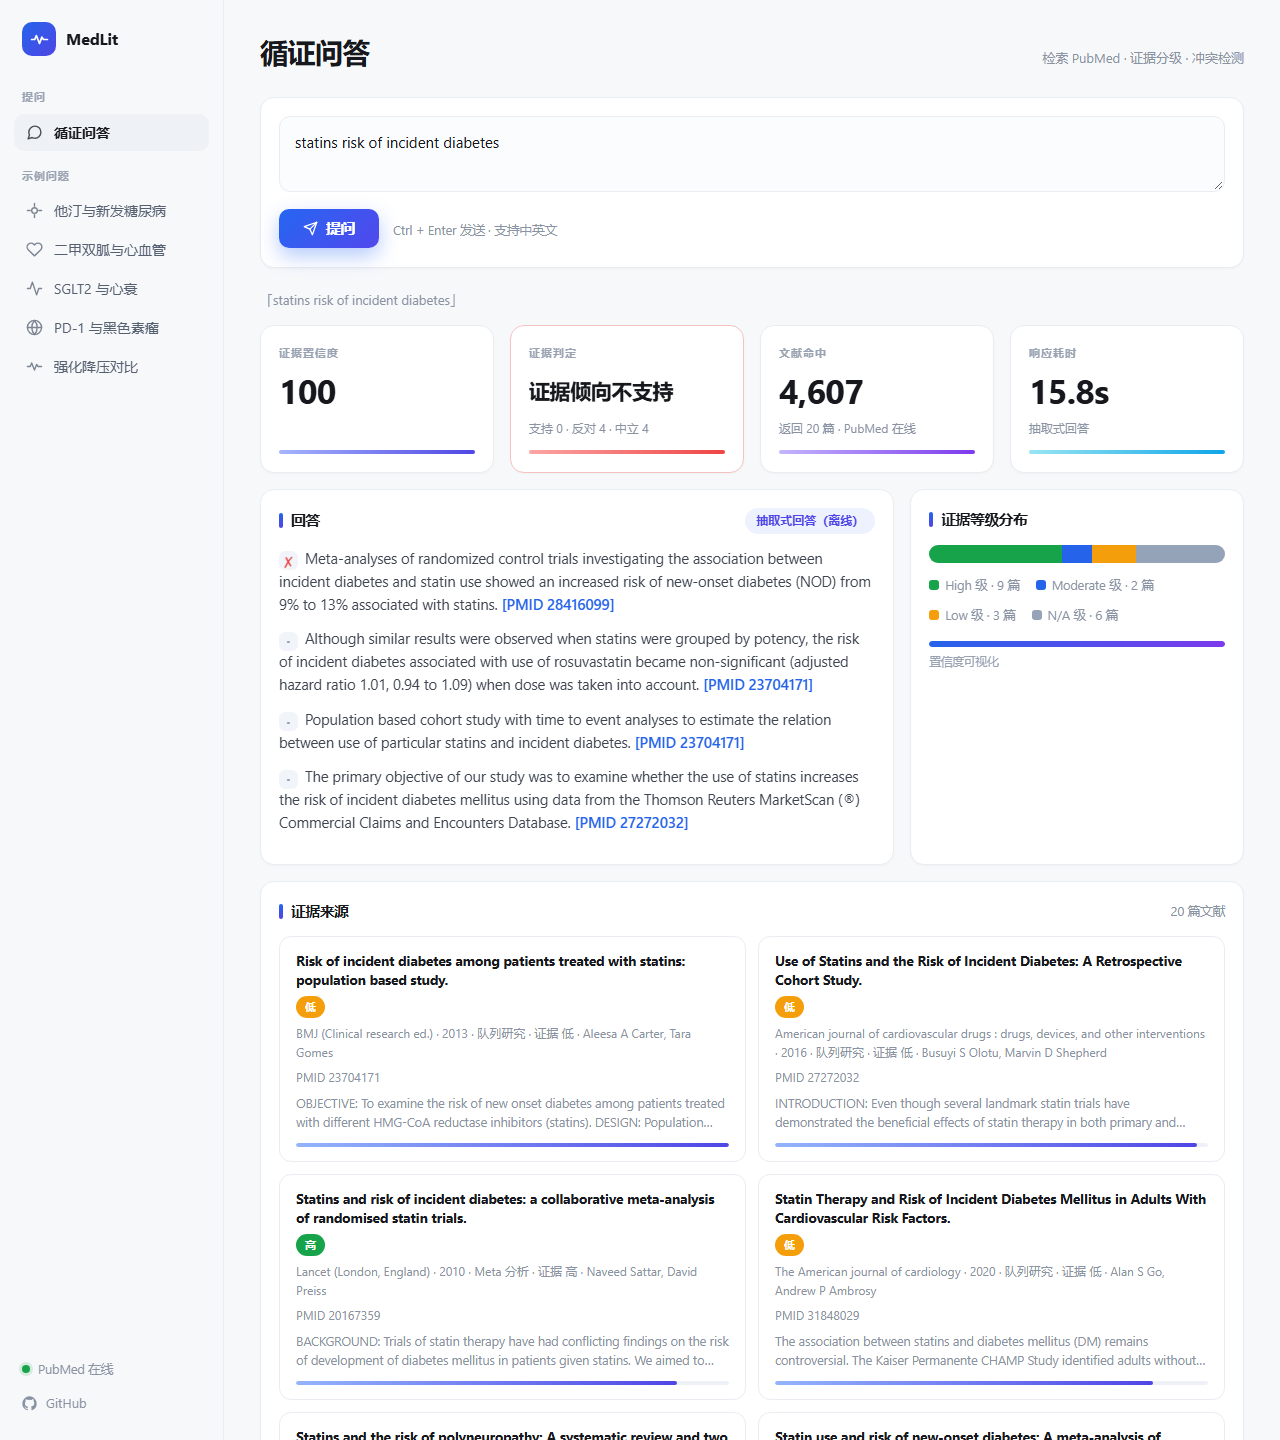
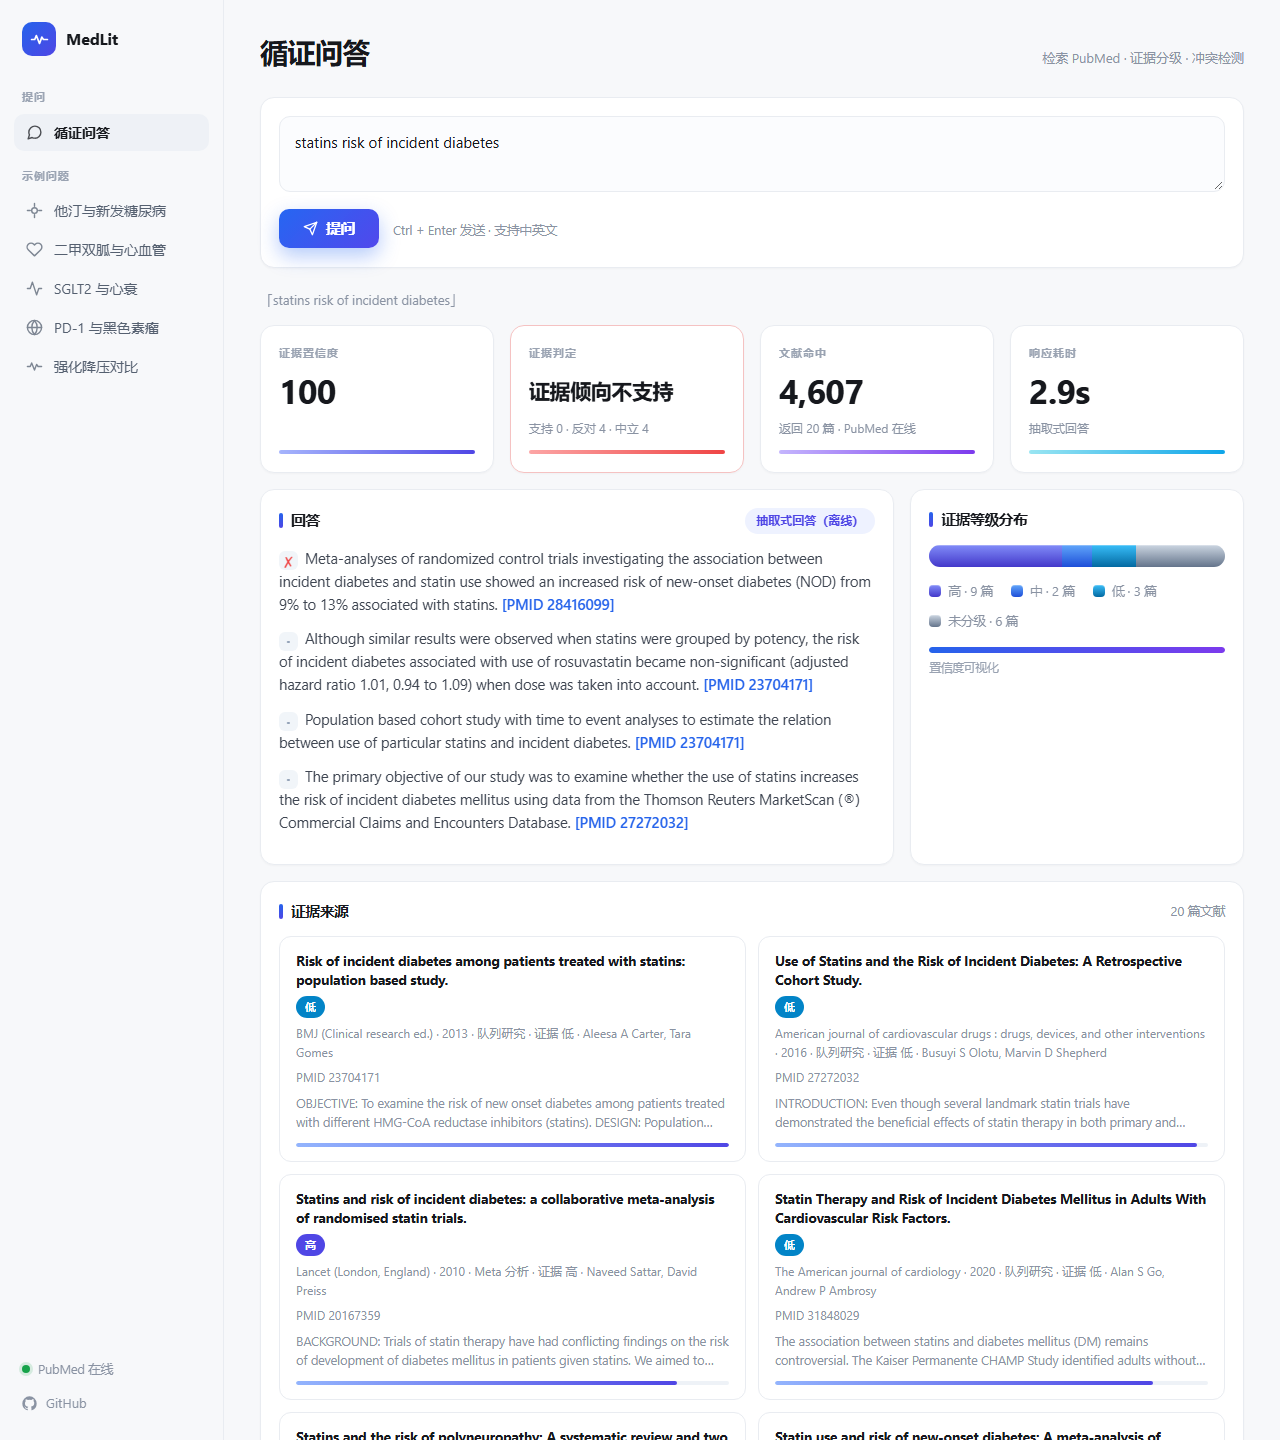
Refine evidence-grade palette to a cool indigo-to-slate scale

diff --git a/static/app.js b/static/app.js
@@ -2,8 +2,16 @@ const GRADE_ZH = {
   High: "高", Moderate: "中", Low: "低", "Very low": "极低", "N/A": "未分级",
 };
 const GRADE_COLOR = {
-  High: "#16a34a", Moderate: "#2563eb", Low: "#f59e0b",
-  "Very low": "#ef4444", "N/A": "#94a3b8",
+  High: "#4f46e5", Moderate: "#2563eb", Low: "#0284c7",
+  "Very low": "#64748b", "N/A": "#94a3b8",
+};
+// 分布条与图例用的渐变（浅上深下，做出厚度），徽章仍用上面的平色
+const GRADE_GRAD = {
+  High: "linear-gradient(180deg, #818cf8, #4338ca)",
+  Moderate: "linear-gradient(180deg, #60a5fa, #1d4ed8)",
+  Low: "linear-gradient(180deg, #38bdf8, #0369a1)",
+  "Very low": "linear-gradient(180deg, #a8b3c2, #475569)",
+  "N/A": "linear-gradient(180deg, #cbd5e1, #64748b)",
 };
 const STYPE_ZH = {
   meta_analysis: "Meta 分析",
@@ -133,12 +141,12 @@ function renderDist(dist) {
     const seg = document.createElement("div");
     seg.className = "dist-seg";
     seg.style.width = pct + "%";
-    seg.style.background = GRADE_COLOR[k];
-    seg.title = `${k}：${v} 篇`;
+    seg.style.background = GRADE_GRAD[k];
+    seg.title = `${GRADE_ZH[k]}：${v} 篇`;
     bar.appendChild(seg);
 
     const item = document.createElement("span");
-    item.innerHTML = `<i class="swatch" style="background:${GRADE_COLOR[k]}"></i>${k} 级 · ${v} 篇`;
+    item.innerHTML = `<i class="swatch" style="background:${GRADE_GRAD[k]}"></i>${GRADE_ZH[k]} · ${v} 篇`;
     legend.appendChild(item);
   });
 }

diff --git a/static/style.css b/static/style.css
@@ -250,15 +250,18 @@ textarea:focus {
 
 /* ---------- 证据分布 ---------- */
 .dist-bar {
-  display: flex; height: 18px; border-radius: 9px; overflow: hidden;
-  background: #f1f5f9; margin-bottom: 12px;
-  box-shadow: inset 0 1px 2px rgba(15, 23, 42, 0.04);
+  display: flex; height: 22px; border-radius: 11px; overflow: hidden;
+  background: #eef1f6; margin-bottom: 14px;
+  box-shadow: inset 0 1px 2px rgba(15, 23, 42, 0.05);
 }
-.dist-seg { height: 100%; transition: filter 0.15s; }
-.dist-seg:hover { filter: brightness(0.92); }
-.dist-legend { display: flex; flex-wrap: wrap; gap: 10px 16px; font-size: 12.5px; color: var(--muted); }
-.dist-legend span { display: flex; align-items: center; gap: 6px; }
-.swatch { width: 10px; height: 10px; border-radius: 3px; display: inline-block; }
+.dist-seg {
+  height: 100%; transition: filter 0.15s;
+  box-shadow: inset 0 1px 0 rgba(255, 255, 255, 0.28);
+}
+.dist-seg:hover { filter: brightness(0.9); }
+.dist-legend { display: flex; flex-wrap: wrap; gap: 10px 18px; font-size: 12.5px; color: var(--muted); }
+.dist-legend span { display: flex; align-items: center; gap: 7px; }
+.swatch { width: 12px; height: 12px; border-radius: 4px; display: inline-block; box-shadow: inset 0 1px 0 rgba(255,255,255,0.25); }
 
 .confidence-bar { height: 6px; background: #eef2f7; border-radius: 999px; margin-top: 16px; overflow: hidden; }
 .confidence-fill {
